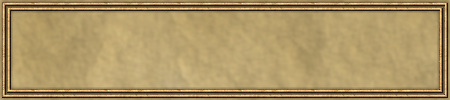
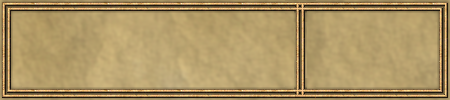
Got battle menu cleaned up and so far wokring well, as well as cleaned up some janky animations.

Changed region(s): [[0.6533, 0.03, 0.6844, 0.96]]

diff --git a/Client/JS/Scenes/Battle.js b/Client/JS/Scenes/Battle.js
@@ -3,11 +3,23 @@ class Battle extends SceneTransition {
     bg;
 
     menuCont;
-    menuBG;
-    menuCursor;
+    menuContX;
+    menuContYOffScreen;
+    menuContYOnScreen;
 
-    menuOptionTexts = [];
-    menuOptionIdx;
+    // Needs to be seperated for mask to work.
+    menuAbilityCmdCont;
+    menuAbilityMaskSprite;
+
+    menuBG;
+
+    menuCursor;
+    menuCmdIndex;
+    menuCmdXPos = {};
+
+    menuAbilityOpts = [];
+    menuAbilityOptIndex;
+    MENU_ABILITY_OPT_SPACE = 35;
 
     LAUNCH_TIME = 1000;
 
@@ -24,7 +36,7 @@ class Battle extends SceneTransition {
     
     constructor() {
         super("Battle");
-        this.menuOptionIdx = Consts.battleCommands.FIGHT;
+        this.menuAbilityOptIndex = 0;
         this.playerIdxObj = {
             self: -1,
             others: []
@@ -35,6 +47,7 @@ class Battle extends SceneTransition {
     preload() {
         this.load.image('battleBG_Grass_House_01', '../../Assets/BattleBackgrounds/Grass_House_01.png');
         this.load.image('battleMenuBG', '../../Assets/GUI/Menu_450x100.png');
+        this.load.image('battleMenuMask', '../../Assets/GUI/menuMask_424x74.png');
         this.load.image('battleMenuCursor', '../../Assets/GUI/arrowRight_32x32.png');
 
         //* Being able to loop through this depends on very specific naming conventions using the "skin" and "move" names.
@@ -50,7 +63,6 @@ class Battle extends SceneTransition {
 
     create() {
         //console.log("CREATE BATTLE");
-        
         this.bg = this.add.image(Main.phaserConfig.width * 0.5, Main.phaserConfig.height * 0.5, 'battleBG_Grass_House_01');
         this.bg.setDisplaySize(Main.phaserConfig.width, Main.phaserConfig.height);
         this.scaleFactorX = this.bg.scaleX;
@@ -63,22 +75,46 @@ class Battle extends SceneTransition {
         this.menuBG.setOrigin(0.5);
         this.menuCont.add(this.menuBG);
 
+        this.menuContX = (this.menuBG.width * 0.5) + 10;
+        this.menuContYOffScreen = Main.phaserConfig.height + (this.menuBG.height * 0.5) + 10;
+        this.menuContYOnScreen = Main.phaserConfig.height - (this.menuBG.height * 0.5) - 10;
+        
+        // X is set perfectly, y being just barely off screen
+        this.menuCont.setPosition(this.menuContX, this.menuContYOffScreen);
+        
+        this.menuAbilityCmdCont = this.add.container(this.menuContX, this.menuContYOffScreen);
+
         // TODO: Make these menu options images instead of text, or find way to stylize fairly well here.
         // TODO: For so long as there's only 2 menu options, this works well enough for now.
-        this.menuOptionTexts.push(this.add.text(0, -15, "FIGHT", Consts.STYLE_DISP_NAME));
-        this.menuOptionTexts[Consts.battleCommands.FIGHT].setOrigin(0.5);
-        this.menuCont.add(this.menuOptionTexts[Consts.battleCommands.FIGHT]);
+        this.menuAbilityOpts.push(this.add.text(-150, 0, "Attack 0", Consts.STYLE_DISP_NAME));
+        this.menuAbilityOpts[0].setOrigin(0, 0.5);
+        this.menuAbilityCmdCont.add(this.menuAbilityOpts[0]);
 
-        this.menuOptionTexts.push(this.add.text(0, 15, "RUN", Consts.STYLE_DISP_NAME));
-        this.menuOptionTexts[Consts.battleCommands.RUN].setOrigin(0.5);
-        this.menuCont.add(this.menuOptionTexts[Consts.battleCommands.RUN]);
+        for(let i = 1; i < Consts.abilityUpgrades.LEVEL2 + 1; i++) {
+            this.menuAbilityOpts.push(this.add.text(-150, this.MENU_ABILITY_OPT_SPACE * i, "Attack " + i, Consts.STYLE_DISP_NAME));
+            this.menuAbilityOpts[i].setOrigin(0, 0.5);
+            this.menuAbilityOpts[i].alpha = 0;
+            this.menuAbilityOpts[i].active = false;
+            this.menuAbilityCmdCont.add(this.menuAbilityOpts[i]);
+        }
 
-        this.menuCursor = this.add.image(-50, -15, 'battleMenuCursor');
+        this.menuAbilityMaskSprite = this.make.sprite({ x: this.menuContX, y: this.menuContYOffScreen, key: "battleMenuMask", add: false });
+        var menuBitmapMask = new Phaser.Display.Masks.BitmapMask(this, this.menuAbilityMaskSprite);
+
+        this.menuAbilityCmdCont.mask = menuBitmapMask;
+
+        // Run command sits independent of the three attack options
+        var runCmd = this.add.text(150, 0, "Run", Consts.STYLE_DISP_NAME);
+        runCmd.setOrigin(0, 0.5);
+        this.menuCont.add(runCmd);
+
+        this.menuCursor = this.add.image(0, 0, 'battleMenuCursor');
         this.menuCursor.setOrigin(0.5);
         this.menuCont.add(this.menuCursor);
 
-        // X is set perfectly, y being just barely off screen
-        this.menuCont.setPosition((this.menuBG.width * 0.5) + 10, Main.phaserConfig.height + (this.menuBG.height * 0.5) + 10);
+        this.menuCmdXPos[Consts.battleCommands.FIGHT] = this.menuAbilityOpts[0].x - this.menuCursor.width * 0.5 - 10;
+        this.menuCmdXPos[Consts.battleCommands.RUN] = runCmd.x - this.menuCursor.width * 0.5 - 10;
+        this.SetMenuOption(Consts.battleCommands.FIGHT);
 
         this.SetActionReady(false);
 
@@ -234,13 +270,25 @@ class Battle extends SceneTransition {
             if(!self.actionReady)
                 return;
 
-            self.ChangeMenuOption();
+            self.ChangeAbilityOption(-1);
         });
         this.input.keyboard.on('keydown_S', () => {
             if(!self.actionReady)
                 return;
 
-            self.ChangeMenuOption();
+            self.ChangeAbilityOption(1);
+        });
+        this.input.keyboard.on('keydown_A', () => {
+            if(!self.actionReady)
+                return;
+
+            self.ToggleCommandOption();
+        });
+        this.input.keyboard.on('keydown_D', () => {
+            if(!self.actionReady)
+                return;
+
+            self.ToggleCommandOption();
         });
         this.input.keyboard.on('keydown_ENTER', () => {
             if(!self.actionReady)
@@ -248,7 +296,8 @@ class Battle extends SceneTransition {
 
             self.SetActionReady(false);
             Network.Emit("BattleAction", {
-                command: this.menuOptionIdx,
+                command: this.menuCmdIndex,
+                ability: this.menuAbilityOptIndex,
                 playerBattleIdx: this.playerIdxObj.self
             });
         });
@@ -310,21 +359,27 @@ class Battle extends SceneTransition {
             }
         });
 
-        // TODO: Make available all commands consistent with ability level
-        //battleData.abilityLevel
+        scene.SetMenuOption(Consts.battleCommands.FIGHT);
+        // Make available all commands consistent with ability level
+        this.menuAbilityOptIndex = Consts.abilityUpgrades.INIT;
+        for(let i = 0; i < battleData.abilityLevel + 1; i++) {
+            scene.menuAbilityOpts[i].active = true;
+            scene.menuAbilityOpts[i].alpha = 1;
+            scene.menuAbilityOpts[i].text = Main.animData.battle["skin-move-actionNames"][battleData.equipLevel][i];
+        }
 
         // Slide in menu
         const menuPropertyConfig = {
             ease: 'Back',
-            from: Main.phaserConfig.height + (scene.menuBG.height * 0.5) + 10,
-            start: Main.phaserConfig.height + (scene.menuBG.height * 0.5) + 10,
-            to: Main.phaserConfig.height - (scene.menuBG.height * 0.5) - 10 
+            from: scene.menuContYOffScreen,
+            start: scene.menuContYOffScreen,
+            to: scene.menuContYOnScreen 
         };
         scene.tweens.add({
             delay: scene.LAUNCH_TIME,
             duration: scene.LAUNCH_TIME * 0.5,
             y: menuPropertyConfig,
-            targets: scene.menuCont
+            targets: [scene.menuCont, scene.menuAbilityCmdCont, scene.menuAbilityMaskSprite]
         });
 
         // Slide in characters
@@ -358,6 +413,7 @@ class Battle extends SceneTransition {
     SetActionReady(beReady) {
         this.actionReady = beReady;
         this.menuCont.alpha = beReady ? 1 : 0.5;
+        this.menuAbilityCmdCont.alpha = beReady ? 1 : 0.5;
     }
 
 
@@ -374,6 +430,16 @@ class Battle extends SceneTransition {
             targets: scene.bg,
             onComplete: () => {
                 Main.player.inBattle = false;
+
+                for(let i = 1; i < scene.menuAbilityOpts.length; i++) {
+                    scene.menuAbilityOpts[i].active = false;
+                    scene.menuAbilityOpts[i].alpha = 0;
+                    scene.menuAbilityOpts[i].text = "";
+                }
+                // Set menu ability container back into (offscreen) position;
+                scene.menuAbilityCmdCont.y = scene.menuContYOffScreen;
+                this.menuAbilityOptIndex = Consts.abilityUpgrades.INIT;
+
                 // TODO: These don't seem to be resetting the sprite's HP dial to full, as they should...?
                 //scene.spriteEnemy.UpdateHP(100);
                 //scene.spriteEnemy.DrawHP(100);
@@ -387,15 +453,15 @@ class Battle extends SceneTransition {
         // Slide menu away
         const menuPropertyConfig = {
             ease: 'Back',
-            from: Main.phaserConfig.height - (scene.menuBG.height * 0.5) - 10,
-            start: Main.phaserConfig.height - (scene.menuBG.height * 0.5) - 10,
-            to: Main.phaserConfig.height + (scene.menuBG.height * 0.5) + 10,
+            from: scene.menuContYOnScreen,
+            start: scene.menuContYOnScreen,
+            to: scene.menuContYOffScreen,
         };
         scene.tweens.add({
             delay: scene.LAUNCH_TIME * 0.25,
             duration: scene.LAUNCH_TIME * 0.5,
             y: menuPropertyConfig,
-            targets: scene.menuCont
+            targets: [scene.menuCont, scene.menuAbilityCmdCont, scene.menuAbilityMaskSprite]
         });
 
         scene.spritePlayers[scene.playerIdxObj.self].ExitBattle(scene.LAUNCH_TIME * 0.25, scene.LAUNCH_TIME * 0.75);
@@ -413,9 +479,50 @@ class Battle extends SceneTransition {
         scene.playerIdxObj.others = [];
     }
 
-    ChangeMenuOption() {
-        // TODO: Adjust if implementing more than 2 options.
-        this.menuOptionIdx = (this.menuOptionIdx == 0) ? 1 : 0;
-        this.menuCursor.setY(this.menuOptionTexts[this.menuOptionIdx].y);
+    ChangeAbilityOption(indexChange) {
+        if(this.menuCmdIndex != Consts.battleCommands.FIGHT)
+            return;
+
+        var tempIndex = this.menuAbilityOptIndex;
+        tempIndex += indexChange;
+
+        // Attempted to select ability option outside bounds given in Consts.js
+        if(tempIndex < Consts.abilityUpgrades.INIT || tempIndex > Consts.abilityUpgrades.LEVEL2)
+            return;
+
+        // Option is inactive if the player doesn't have the given ability available.
+        if(!this.menuAbilityOpts[tempIndex].active)
+            return;
+
+        this.menuAbilityOptIndex = tempIndex;
+        this.SwitchMenuAbility();
+    }
+    ToggleCommandOption() {
+        if(this.menuCmdIndex == Consts.battleCommands.RUN) {
+            this.menuCmdIndex = Consts.battleCommands.FIGHT;
+            this.menuCursor.setX(this.menuCmdXPos[Consts.battleCommands.FIGHT]);
+        }
+        else {
+            this.menuCmdIndex = Consts.battleCommands.RUN;
+            this.menuCursor.setX(this.menuCmdXPos[Consts.battleCommands.RUN]);
+        }
+    }
+    SetMenuOption(cmdIndex) {
+        this.menuCmdIndex = cmdIndex;
+        this.menuCursor.setX(this.menuCmdXPos[cmdIndex]);
+    }
+
+    SwitchMenuAbility() {
+        const menuAbilityConfig = {
+            ease: 'Back',
+            from: this.menuAbilityCmdCont.y,
+            start: this.menuAbilityCmdCont.y,
+            to: this.menuContYOnScreen - this.menuAbilityOptIndex * this.MENU_ABILITY_OPT_SPACE 
+        };
+        this.tweens.add({
+            duration: 250,
+            y: menuAbilityConfig,
+            targets: this.menuAbilityCmdCont
+        });
     }
 }

diff --git a/Server/Player.js b/Server/Player.js
@@ -163,10 +163,12 @@ module.exports = function(sprites) {
 
                 self.canAct = false;
 
+                // TODO: Implement ability as speed factor.
                 sprites.allData[Consts.spriteTypes.ENEMY][self.enemyID].ReceiveAction({
                     command: actionObj.command,
+                    ability: actionObj.ability,
                     battleIdx: actionObj.playerBattleIdx,
-                    damage: self.strength + self.equipLevel,
+                    damage: self.strength + self.equipLevel + actionObj.ability,
                     fromSocketID: socket.client.id
                 });
             });
@@ -296,6 +298,7 @@ module.exports = function(sprites) {
                         enemyHPCurr: enemy.hpCurr,
                         playerData: playersInBattleData,
                         playerIdxObj: playerIdxObj,
+                        equipLevel: this.equipLevel,
                         abilityLevel: this.abilityLevel
                     });
                 }

diff --git a/Server/Enemies.js b/Server/Enemies.js
@@ -291,7 +291,7 @@ module.exports = function(sprites) {
                         actorBattleIdx: actionObj.battleIdx,
                         targetBattleIdx: -1,
                         command: actionObj.command,
-                        ability: 0, // TODO: Change based on input
+                        ability: actionObj.ability,
                         damage: actionObj.damage,
                         targetHPMax: this.hpMax,
                         targetHPCurr: this.hpCurr

diff --git a/Shared/Consts.js b/Shared/Consts.js
@@ -7,6 +7,13 @@
         fill: "#FFFFFF",
         fontStyle: "strong"
     };
+    exports.STYLE_BATTLE_GUI_SUBTITLE = { 
+        font: "10px Arial",
+        stroke: "#000000",
+        strokeThickness: 4, 
+        fill: "#FFFFFF",
+        fontStyle: "strong"
+    };
     exports.STYLE_DISP_DAMAGE = { 
         font: "24px Arial", 
         stroke: "#000000",

diff --git a/Client/JS/Main.js b/Client/JS/Main.js
@@ -31,7 +31,7 @@ var Main = (() => {
         animData: null,
         phaserConfig: {
             title: "Doom Lagoon",
-            type: Phaser.AUTO,
+            type: Phaser.WEBGL,
             width: 960,
             height: 560,
             physics: {
